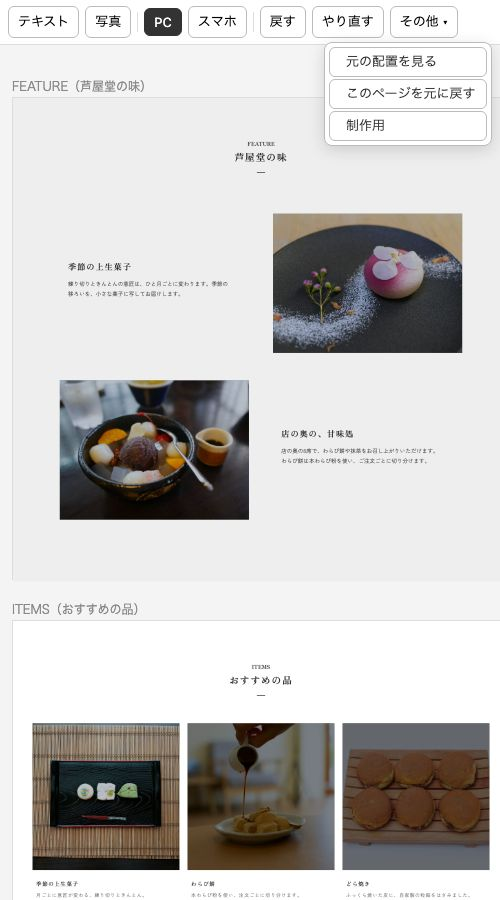
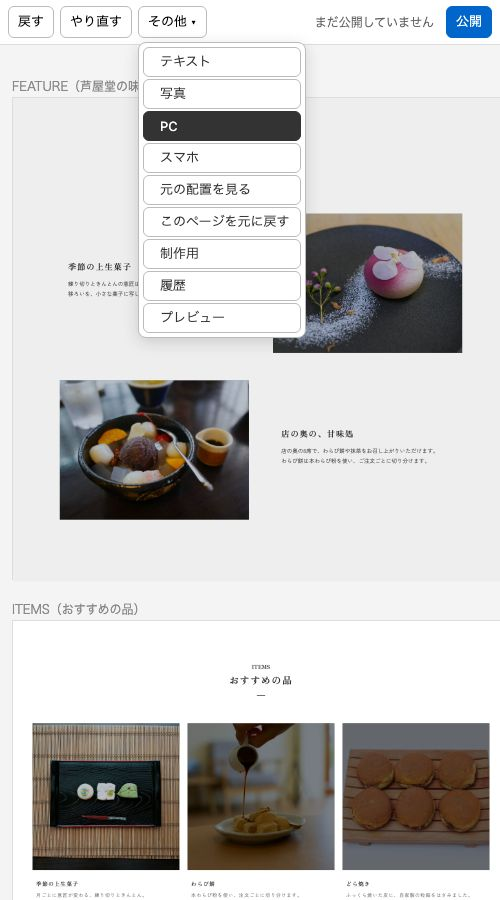
playground22b：§2 保存(IndexedDB 自動保存)・§3 ツールバー右端(状態の文字/履歴/プレビュー/公開)＋X28・§4.3 公開の記録
- §2(app.js)：直すたび500ms以内に下書き(ops+足した写真のasset)を IndexedDB へ自動保存。開き直しで boot() が復元し、戻すは undoBase から(復元直後は押せない)。saveState/simulateSaveError。reset で初期化。
- §3(build.mjs)：ツールバー右端に 状態の文字/履歴/プレビュー/公開。公開=青地白(公開中と同じ→灰で押せない)、未公開の変更ありはオレンジ太字。公開で「公開しました」トースト3秒。
  しまう順 制作用→履歴→プレビュー→元の配置→このページ→PC/スマホ→テキスト/写真(公開・戻す・やり直すはしまわない)。状態の文字は入らなければ その他 の一番上。スマホは下の並び右端に公開(44)・履歴/プレビュー/状態文字は その他。
- §4.3(app.js)：publish({force})で下書きを公開した版として履歴へ(日時つき)。公開した版は新しい30まで＋最初の形。versions()。22b は確認の箱なし。
- 入口 api/返り値に boot/saveState/simulateSaveError/publish/versions。presets W1-W7・W19、act に publish/simError。
- 検証：W1-W7/W19 の保存・公開・30件・復元・undoBase・保存失敗、§3 ツールバー(PC/スマホ)の状態文字/公開/しまい、L1-L32 全OK。

Changed region(s): [[0.03, 0.0, 0.99, 0.3733]]

diff --git a/refs/compare/layout/playground22_single.html b/refs/compare/layout/playground22_single.html
@@ -37,6 +37,15 @@ body{margin:0;font:14px/1.6 system-ui,-apple-system,"Hiragino Kaku Gothic ProN",
 #moreMenu [data-more-name] .sw{display:inline-block;width:16px;height:16px;border:1px solid #bbb;border-radius:3px}
 #moreMenu #tstools,#moreMenu #photoTools,#moreMenu #elemTools{display:inline-flex!important}
 #toolbar .sp{flex:1}
+/* §22 §3 状態の文字・公開ボタン・「公開しました」トースト */
+#saveStatus{font:12px system-ui;color:#666;white-space:nowrap;padding:0 6px;flex:0 0 auto}
+#saveStatus.warn{color:#e08a00;font-weight:700}
+#tPublish{background:#06c;color:#fff;border-color:#06c}
+#tPublish:disabled{background:#eee;color:#aaa;border-color:#ddd;cursor:default}
+#publishToast{position:fixed;left:50%;bottom:44px;transform:translateX(-50%);z-index:90;background:#333;color:#fff;font:13px system-ui;padding:9px 18px;border-radius:8px;box-shadow:0 2px 10px rgba(0,0,0,.25);display:none}
+#publishToast.on{display:block}
+#moreMenu .morestat{font:12px system-ui;color:#666;padding:4px 10px;min-height:30px;display:flex;align-items:center;cursor:default}
+#moreMenu .morestat.warn{color:#e08a00;font-weight:700}
 button{font:13px system-ui;padding:5px 9px;border:1px solid #bbb;border-radius:6px;background:#fff;cursor:pointer}
 button.on{background:#333;color:#fff;border-color:#333}
 button:active{transform:translateY(1px)}
@@ -197,6 +206,8 @@ button:active{transform:translateY(1px)}
 #pmore.on{display:flex}
 #pmore button{min-height:44px;font-size:15px;text-align:left;border:none;background:#fff;border-radius:6px;padding:8px 14px}
 #pmore button:active{background:#eef}
+#pmore .pmorestat{font:13px system-ui;color:#666;padding:8px 14px;min-height:44px;display:flex;align-items:center}
+#pmore .pmorestat.warn{color:#e08a00;font-weight:700}
 /* §3 キーボードのすぐ上の文字の道具 */
 #ptext{position:fixed;left:0;top:0;z-index:74;display:none;background:#fff;border-top:1px solid #ddd;box-shadow:0 -2px 10px rgba(0,0,0,.08);padding:6px 8px;gap:6px;align-items:center;transform-origin:top left}
 #ptext.on{display:flex}
@@ -250,6 +261,10 @@ button:active{transform:translateY(1px)}
   <button id="tMore" data-more-btn>その他 ▾</button>
   <span class="sp"></span>
   <button id="tStudio">制作用</button>
+  <span id="saveStatus" class="savestat"></span>
+  <button id="tHistory">履歴</button>
+  <button id="tPreview">プレビュー</button>
+  <button id="tPublish">公開</button>
 </div>
 <div id="studio">
   <div class="box"><b>試験を再現</b><br>
@@ -298,6 +313,7 @@ button:active{transform:translateY(1px)}
 <div id="linkPanel" data-link-panel></div>
 <div id="linkChip" data-link-chip></div>
 <div id="moreMenu"></div>
+<div id="publishToast"></div>
 <button id="photoChangeBtn" type="button" data-photo-change></button>
 <div id="brightPop" class="tspop"></div>
 <div id="pbar"></div>
@@ -1792,7 +1808,7 @@ const PG = (function () {
 
   // §2 セクションの並び（ページの組み立て）。今は特集・品の2つ。複製・追加・削除・並べ替えはこの並びを書き換える（試験台14・第2回で操作を足す）。
   const defaultSecList = () => [{ id: "feature", type: "feature" }, { id: "items", type: "items" }];
-  let state = { device: "pc", ops: [], cursor: 0, selected: new Set(), selectedSection: null, editing: null, peek: false, clipboard: null, addSeq: 0, secSeq: 0, secList: defaultSecList(), pendingNewText: null, fixedSections: false };
+  let state = { device: "pc", ops: [], cursor: 0, undoBase: 0, selected: new Set(), selectedSection: null, editing: null, peek: false, clipboard: null, addSeq: 0, secSeq: 0, secList: defaultSecList(), pendingNewText: null, fixedSections: false };
   let scale = 1, layoutCount = 0, composing = false;
   let clampGuard = false;   // §20b §2.4 表の幅クランプの再描画ガード（render の再入防止）
   let appliedPlace = {}; // id -> {top,left} 直近の絶対配置
@@ -2358,10 +2374,61 @@ const PG = (function () {
   function selectSection(sec) { state.selectedSection = sec; state.selected = new Set(); refreshSel(); }
 
   // ---- 履歴 ----
-  function commit(op) { state.ops = state.ops.slice(0, state.cursor); state.ops.push(op); state.cursor++; render(); }
-  function undo() { if (state.editing) return; if (state.cursor > 0) { state.cursor--; render(); } }
-  function redo() { if (state.editing) return; if (state.cursor < state.ops.length) { state.cursor++; render(); } }
-  function reset() { state.ops = []; state.cursor = 0; state.selected = new Set(); state.selectedSection = null; state.editing = null; state.secList = defaultSecList(); render(); }
+  function commit(op) { state.ops = state.ops.slice(0, state.cursor); state.ops.push(op); state.cursor++; render(); scheduleSave(); }
+  function undo() { if (state.editing) return; if (state.cursor > state.undoBase) { state.cursor--; render(); scheduleSave(); } }   // §22 §2.4 開き直した後の「戻す」は undoBase（＝復元した所）まで
+  function redo() { if (state.editing) return; if (state.cursor < state.ops.length) { state.cursor++; render(); scheduleSave(); } }
+  function reset() { state.ops = []; state.cursor = 0; state.undoBase = 0; state.selected = new Set(); state.selectedSection = null; state.editing = null; state.secList = defaultSecList(); _versions = initialVersions(); _saveStatus = "saved"; _simErr = false; render(); }
+
+  // ===================== §22 §2 保存（IndexedDB・自動保存）／§4.3 公開の記録 =====================
+  const IDB_DB = "mikke-playground22", IDB_VER = 1, IDB_STORE = "state";
+  const TEMPLATE_ASSETS = (typeof PHOTOS_JSON !== "undefined") ? PHOTOS_JSON : {};
+  let _db = null, _saveTimer = null, _saveStatus = "saved", _lastSavedAt = null, _simErr = false, _verSeq = 1;
+  const initialVersions = () => [{ id: "initial", kind: "initial", at: null, ops: [], assets: {} }];
+  let _versions = initialVersions();
+  function idbOpen() { return new Promise((res, rej) => { let q; try { q = indexedDB.open(IDB_DB, IDB_VER); } catch (e) { return rej(e); } q.onupgradeneeded = () => { const db = q.result; if (!db.objectStoreNames.contains(IDB_STORE)) db.createObjectStore(IDB_STORE); }; q.onsuccess = () => res(q.result); q.onerror = () => rej(q.error); }); }
+  function idbGet(db, key) { return new Promise((res, rej) => { const t = db.transaction(IDB_STORE, "readonly"); const g = t.objectStore(IDB_STORE).get(key); g.onsuccess = () => res(g.result); g.onerror = () => rej(g.error); }); }
+  function idbPut(db, key, val) { return new Promise((res, rej) => { const t = db.transaction(IDB_STORE, "readwrite"); t.objectStore(IDB_STORE).put(val, key); t.oncomplete = () => res(); t.onerror = () => rej(t.error); }); }
+  function collectAssets() { const out = {}; for (const id in ASSET) if (!(id in TEMPLATE_ASSETS) && ASSET[id]) out[id] = ASSET[id]; return out; }   // §2.3 足した/差し替えた写真
+  function serializeDraft() { return { ops: activeOps(), assets: collectAssets() }; }
+  function applyDraftData(d) { if (!d || !Array.isArray(d.ops)) return false; for (const id in (d.assets || {})) ASSET[id] = d.assets[id]; state.ops = clone(d.ops); state.cursor = state.ops.length; state.undoBase = state.cursor; return true; }
+  function scheduleSave() { if (_saveTimer) clearTimeout(_saveTimer); if (_saveStatus !== "error") _saveStatus = "saving"; if (typeof onRender === "function") onRender(); _saveTimer = setTimeout(doSave, 500); }   // §2.2 操作後 500ms 以内に保存／まとめて1回
+  async function doSave() {
+    _saveTimer = null;
+    try { if (_simErr) throw new Error("sim"); if (!_db) _db = await idbOpen(); await idbPut(_db, "draft", serializeDraft()); await idbPut(_db, "versions", _versions); _saveStatus = "saved"; _lastSavedAt = Date.now(); }
+    catch (e) { _saveStatus = "error"; }   // §2.6 保存に失敗したら状態の文字をオレンジに
+    if (typeof onRender === "function") onRender();
+    for (const id in collectAssets()) ensureNat(id);
+  }
+  async function boot() { try { _db = await idbOpen(); const vs = await idbGet(_db, "versions"); if (Array.isArray(vs) && vs.length) { _versions = vs; _verSeq = Math.max(_verSeq, ...vs.map((v) => (+String(v.id).replace(/\D/g, "") || 0)) ) + 1; } const d = await idbGet(_db, "draft"); if (d) applyDraftData(d); } catch (e) {} render(); for (const id in collectAssets()) ensureNat(id); }
+  function currentPublished() { const p = _versions.filter((v) => v.kind === "published"); return p.length ? p[p.length - 1] : null; }
+  function draftSig() { return JSON.stringify({ ops: activeOps(), assets: collectAssets() }); }
+  function publishedEqual() { const p = currentPublished(); return p ? (JSON.stringify({ ops: p.ops, assets: p.assets }) === draftSig()) : false; }   // §3.2 一度も公開していなければ false
+  function statusLabel() {
+    if (_saveStatus === "saving") return "保存しています…";
+    if (_saveStatus === "error") return "保存できませんでした。インターネットのつながりを確かめてください";
+    const p = currentPublished(); if (!p) return "まだ公開していません";
+    return publishedEqual() ? "公開中と同じです" : "まだ公開していない変更があります";
+  }
+  function saveState() { return { status: _saveStatus, label: statusLabel(), publishedEqual: publishedEqual(), lastSavedAt: _lastSavedAt }; }
+  function simulateSaveError(on) { _simErr = !!on; }
+  // §4.3 公開：下書きを「公開した版」として履歴へ（force は確認の箱を出さない＝22b）。公開した版は新しい方から30まで。最初の形は常に持つ。
+  function publish(opts) {
+    const v = { id: "v" + (_verSeq++), kind: "published", at: Date.now(), ops: activeOps(), assets: collectAssets() };
+    _versions.push(v);
+    const pubs = _versions.filter((x) => x.kind === "published");
+    if (pubs.length > 30) { const drop = new Set(pubs.slice(0, pubs.length - 30)); _versions = _versions.filter((x) => !drop.has(x)); }
+    scheduleSave(); if (typeof onRender === "function") onRender();
+    return v.id;
+  }
+  function versions() {
+    const pubs = _versions.filter((v) => v.kind === "published");
+    const cur = currentPublished();
+    const list = [{ id: "draft", kind: "draft", at: null, current: !cur || !publishedEqual() }];
+    for (let i = pubs.length - 1; i >= 0; i--) list.push({ id: pubs[i].id, kind: "published", at: pubs[i].at, current: pubs[i] === cur });
+    for (const b of _versions.filter((v) => v.kind === "beforeRestore")) list.push({ id: b.id, kind: "beforeRestore", at: b.at, current: false });
+    list.push({ id: "initial", kind: "initial", at: null, current: false });
+    return list;
+  }
   function setDevice(d) { if (state.editing) commitEdit(); state.device = d; render(); }
 
   // ---- §2 セクションの操作（上へ・下へ・複製・削除・足す）。ページの組み立て＝端末共通・1操作1undo。----
@@ -3281,6 +3348,15 @@ const PG = (function () {
       W21: [],                                          // §7 開いた直後（setFixedSections=false）＝20b と一致
       W22: [{ act: "setDev", d: "pc" }, { act: "move", id: "F_p0", by: [-619, 0] }, { act: "zmove", id: "F_p0", m: "back" }, { act: "zmove", id: "F_p0", m: "forward" }],   // §8 最背面→前面へ移動＝写真が見出しの前・本文の後ろ
       W23: [{ act: "winOnly" }],                         // X27 離す前の dropTarget（ドラッグ中の見た目＝再現なし）
+      // ===== 試験台22b（W1〜W7・W19）=====
+      W1: [{ act: "setDev", d: "pc" }],                  // §2/§3 新しい文脈で開く＝まだ公開していません・履歴は最初の形だけ（文脈は試験側）
+      W2: [{ act: "winOnly" }],                          // §2 開き直しは文脈の外＝再現なし
+      W3: [{ act: "winOnly" }],                          // §2 開き直しは再現なし
+      W4: [{ act: "winOnly" }],                          // §2 写真を足して開き直し＝再現なし
+      W5: [{ act: "setDev", d: "pc" }, { act: "simError", on: true }, { act: "edit", id: "F_h0", text: "保存失敗テスト" }, { act: "simError", on: false }, { act: "edit", id: "F_h0", text: "復帰テスト" }],   // §2.6 保存失敗→復帰
+      W6: [{ act: "setDev", d: "pc" }, { act: "edit", id: "F_h0", text: "公開テスト" }, { act: "publish" }],   // §4.3 公開＝確認の箱なし・公開中と同じに
+      W7: [{ act: "setDev", d: "pc" }, { act: "edit", id: "F_h0", text: "公開テスト" }, { act: "publish" }, { act: "edit", id: "F_h0", text: "さらに変更" }],   // §3.2 公開後に変更＝未公開の変更あり
+      W19: Array.from({ length: 32 }, (_, i) => [{ act: "edit", id: "F_h0", text: "版" + i }, { act: "publish" }]).flat(),   // §4.3 32回公開→公開した版30＋最初の形
     };
   }
   let lastSec = null;   // プリセットで直前に作った（複製・追加した）セクションの ID。@dup/@add が指す。
@@ -3323,6 +3399,8 @@ const PG = (function () {
     else if (step.act === "zfront") { bringToFront(); }
     else if (step.act === "zmove") { selectMany([canonId(step.id)]); ({ front: bringToFront, back: sendToBack, forward: bringForward, backward: sendBackward }[step.m] || (() => {}))(); }   // §22 §8
     else if (step.act === "setFixedSections") { setFixedSections(step.on); }   // §22 §7
+    else if (step.act === "publish") { publish(step.opts || { force: true }); }   // §22 §4.3
+    else if (step.act === "simError") { simulateSaveError(step.on); }   // §22 §2.6
     else if (step.act === "resetSection") { resetScope("section", step.sec === "feature" ? "F_h0" : "I_kanmi", [state.device]); }
     else if (step.act === "moveCenterToCenter") { const r = g[step.ref]; if (r) { const y = r.y + r.h / 2 + (step.off || 0) - g[step.id].h / 2; programMove([step.id], () => ({ x: g[step.id].x, y })); } }
     else if (step.act === "moveCenterToGap") { const a = g[step.after], b = g[step.before]; if (a && b) { const y = (a.y + a.h + b.y) / 2 - g[step.id].h / 2; programMove([step.id], () => ({ x: g[step.id].x, y })); } }
@@ -3550,9 +3628,12 @@ const PG = (function () {
     startEdit: (id) => startEdit(canonId(id)),
     editingId: () => state.editing && state.editing.id,
     setFixedSections,   // §22 §7 仮の一番上・一番下セクション
+    boot, saveState, simulateSaveError, publish, versions,   // §22 §2 保存・§4.3 公開の記録
   };
   return {
     state, render, reset, setDevice, undo, redo, commit, api, reduce, activeOps,
+    boot, saveState, simulateSaveError, publish, versions, setFixedSections,   // §22 §2 保存・§4.3 公開・§7（WIRING から使う）
+    canUndo: () => state.cursor > state.undoBase, canRedo: () => state.cursor < state.ops.length,
     canonId, isDraggable, isText, REPEAT, groupOf, secOf, elNode, getScale: () => scale, isHeadingGroup, inputMode,
     sectionMove, sectionDelete, sectionAdd, sectionDuplicate, sectionCan,   // §2 セクションの操作
     beginDrag, dragMove, endDrag, isDragging: () => !!drag, selectOnly, toggleSel, selectMany, clearSel, selectSection, selectInDesignRect, smallHit,
@@ -3595,7 +3676,7 @@ function opText(op){ const nm=id=>C3.friendly(id);
   return op.t; }
 function refreshStudio(){ const ol=document.getElementById("oplog"); if(ol){ ol.innerHTML=""; for(const op of PG.api.ops()){ const li=document.createElement("li"); li.textContent=opText(op); ol.appendChild(li);} }
   const ul=document.getElementById("anchorlist"); if(ul){ ul.innerHTML=""; for(const a of PG.anchorsList()){ const li=document.createElement("li"); li.textContent=a.partName+"："+(a.mode==="M1"?"塊の中でずらす":a.anchorName+"の下（空き"+a.gapY+"）"); ul.appendChild(li);} } }
-window.onRender=function(){ restoreFromMore(); applyPhotos(); refreshStudio(); positionFmenu(); updateTextTools(); updatePhotoTools(); updateElemTools(); updateCardsTools(); refreshPhotoBtns(); updateAddZones(); addHandleHits(); refreshPhoneUI(); syncOverlays(); layoutToolbar(); };
+window.onRender=function(){ restoreFromMore(); applyPhotos(); refreshStudio(); positionFmenu(); updateTextTools(); updatePhotoTools(); updateElemTools(); updateCardsTools(); refreshPhotoBtns(); updateAddZones(); addHandleHits(); refreshPhoneUI(); syncOverlays(); if(typeof updateSaveUI==="function") updateSaveUI(); layoutToolbar(); if(typeof updateMoreStatus==="function") updateMoreStatus(); };
 // §19b（X20）上の道具を常に1段に保ち、入りきらないぶんを「その他 ▾」にしまう（窓の幅で機能を隠さない）
 const toolbarEl=document.getElementById("toolbar");
 const tMore=document.getElementById("tMore");
@@ -3624,17 +3705,19 @@ function cleanupDividers(){ for(const host of [toolbarEl, document.getElementByI
     const prevIsDiv=i>0 && visChildren[i-1].classList&&visChildren[i-1].classList.contains("div");
     if(!prevBtn||!nextBtn||prevIsDiv) c.style.display="none"; } } }
 function overflowCandidates(){ const out=[]; const push=(sel)=>{ const el=typeof sel==="string"?document.querySelector(sel):sel; if(el) out.push(el); };
-  push("#tStudio"); push("#tPeek"); push("#tResetPage"); push("#dSP"); push("#dPC"); push("#tPhoto"); push("#tText");   // §2 しまう順（先にしまうもの）
+  push("#tStudio"); push("#tHistory"); push("#tPreview"); push("#tPeek"); push("#tResetPage"); push("#dSP"); push("#dPC"); push("#tPhoto"); push("#tText");   // §22 §3.3 しまう順：制作用→履歴→プレビュー→元の配置→このページ→PC/スマホ→テキスト/写真（公開・戻す・やり直すはしまわない）
   for(const sel of ['#tstools [data-ts="link"]','#tstools [data-ts="color"]','#tstools [data-ts="bold"]','#tstools [data-ts="size-list"]','#tstools [data-ts="grow"]','#tstools [data-ts="size"]','#tstools [data-ts="shrink"]','#tstools [data-ts="font"]','#tBright','#tCols','#tElemLink']) push(sel);   // それでも入らなければ道具の右から
   return out; }   // 「戻す」「やり直す」は最後までしまわない
 let laying=false;
 function layoutToolbar(){ if(laying) return; laying=true;
   moreMenu.classList.remove("on"); restoreFromMore(); tMore.style.display="none"; cleanupDividers();
+  const stat=document.getElementById("saveStatus"); if(stat) stat.style.display="";   // §22 §3.3 まず状態の文字を並びに戻す
   if(toolbarEl.scrollWidth<=toolbarEl.clientWidth+1){ laying=false; return; }
   tMore.style.display="inline-block";   // §19b CSS 既定が display:none のため明示的に出す（""だと none に戻る）
   // §22 X28：PC とスマホ、テキストと写真は組＝片方だけ並びに残さない（しまうときは相方も一緒にしまう）
   const PAIR={dSP:"dPC",dPC:"dSP",tPhoto:"tText",tText:"tPhoto"};
   for(const el of overflowCandidates()){ if(toolbarEl.scrollWidth<=toolbarEl.clientWidth+1) break; if(el && el.offsetParent!==null && el!==tMore){ moveToMore(el); const pid=PAIR[el.id]; if(pid){ const pe=document.getElementById(pid); if(pe && pe.offsetParent!==null) moveToMore(pe); } } }
+  if(stat && toolbarEl.scrollWidth>toolbarEl.clientWidth+1) stat.style.display="none";   // §22 §3.3 それでも入らなければ状態の文字をしまう（→その他の一番上へ。updateMoreStatus）
   reorderMore(); cleanupDividers();
   laying=false; }
 tMore.onmousedown=(e)=>e.preventDefault();
@@ -3654,6 +3737,20 @@ document.getElementById("tUndo").onclick=()=>PG.undo();
 document.getElementById("tRedo").onclick=()=>PG.redo();
 document.getElementById("tResetPage").onclick=()=>PG.resetScope("page",null,["pc","sp"]);
 document.getElementById("tStudio").onclick=(e)=>{ document.getElementById("studio").classList.toggle("on"); e.target.classList.toggle("on"); refreshStudio(); };
+// §22 §3 公開・状態の文字・「公開しました」トースト（§4.1 の確認の箱は 22c。22b は publish({force:true}) 相当）
+let _lastPubEnabled=true, _pubToastT=null;
+function updateSaveUI(){ const st=PG.saveState(); const el=document.getElementById("saveStatus"); const pub=document.getElementById("tPublish"); if(!el||!pub) return;
+  el.textContent=st.label; el.classList.toggle("warn", st.status==="error" || st.label==="まだ公開していない変更があります");
+  if(st.status==="saved") _lastPubEnabled = !st.publishedEqual;   // §3.2 公開中と同じ→押せない／それ以外→押せる。保存中・失敗は前の状態のまま
+  pub.disabled = !_lastPubEnabled;
+  updateMoreStatus(); }
+document.getElementById("tPublish").onclick=()=>{ const pub=document.getElementById("tPublish"); if(pub.disabled) return; PG.publish({force:true}); const t=document.getElementById("publishToast"); t.textContent="公開しました"; t.classList.add("on"); clearTimeout(_pubToastT); _pubToastT=setTimeout(()=>t.classList.remove("on"),3000); updateSaveUI(); };
+document.getElementById("tHistory").onclick=()=>{ /* §6 履歴の板は 22d */ };
+document.getElementById("tPreview").onclick=()=>{ /* §5 プレビューは 22c */ };
+// §3.3 状態の文字が並びに入らないときは「その他」の一番上に押せない行として出す
+function updateMoreStatus(){ const mm=document.getElementById("moreMenu"); if(!mm) return; const old=mm.querySelector(".morestat"); if(old) old.remove();
+  const el=document.getElementById("saveStatus"); const stowed = el && (el.offsetParent===null); if(!stowed) return;
+  const st=PG.saveState(); const row=document.createElement("div"); row.className="morestat"+((st.status==="error"||st.label==="まだ公開していない変更があります")?" warn":""); row.textContent=st.label; mm.insertBefore(row, mm.firstChild); }
 const peekBtn=document.getElementById("tPeek");
 peekBtn.addEventListener("pointerdown",()=>PG.peekOn()); window.addEventListener("pointerup",()=>{ if(PG.state.peek) PG.peekOff(); });
 document.querySelectorAll("[data-q]").forEach(b=>b.onclick=()=>PG.api.runPreset(b.dataset.q));
@@ -4365,11 +4462,17 @@ function buildPbar(){ pbar.innerHTML="";
   pbar.appendChild(pbtn("戻す",()=>PG.undo(),"data-pbar-undo"));
   pbar.appendChild(pbtn("やり直す",()=>PG.redo(),"data-pbar-redo"));
   pbar.appendChild(pbtn("その他",()=>togglePmore(),"data-pbar-more"));
+  const sp=document.createElement("span"); sp.className="sp"; pbar.appendChild(sp);   // §22 §3.4 右端に公開
+  pbar.appendChild(pbtn("公開",()=>phonePublish(),"data-pbar-publish"));
 }
+function phonePublish(){ const st=PG.saveState(); if(st.label==="公開中と同じです") return; PG.publish({force:true}); const t=document.getElementById("publishToast"); t.textContent="公開しました"; t.classList.add("on"); clearTimeout(_pubToastT); _pubToastT=setTimeout(()=>t.classList.remove("on"),3000); refreshPhoneUI(); }
 function setPhoneDevice(d){ pmore.classList.remove("on"); PG.setDevice(d); const sp=document.getElementById("dSP"), pc=document.getElementById("dPC"); if(d==="sp"){ sp.classList.add("on"); pc.classList.remove("on"); } else { pc.classList.add("on"); sp.classList.remove("on"); } }
 function togglePmore(){ if(pmore.classList.contains("on")){ pmore.classList.remove("on"); return; } buildPmore(); pmore.classList.add("on"); placeAboveBar(pmore); }
 function buildPmore(){ pmore.innerHTML="";   // §2.3 一覧の中身（上から）
   const mk=(label,fn)=>{ const b=document.createElement("button"); b.textContent=label; b.addEventListener("pointerdown",(e)=>e.preventDefault()); b.onclick=(e)=>{ e.stopPropagation(); pmore.classList.remove("on"); fn(); }; return b; };
+  const st=PG.saveState(); const srow=document.createElement("div"); srow.className="pmorestat"+((st.status==="error"||st.label==="まだ公開していない変更があります")?" warn":""); srow.textContent=st.label; pmore.appendChild(srow);   // §22 §3.4 状態の文字＝その他の一番上
+  pmore.appendChild(mk("履歴",()=>{ /* §6 履歴の板は 22d */ }));   // §22 §3.4 履歴・プレビューはその他
+  pmore.appendChild(mk("プレビュー",()=>{ /* §5 プレビューは 22c */ }));
   pmore.appendChild(mk("テキストを足す",()=>phoneAddText()));
   pmore.appendChild(mk("PC の見え方を見る",()=>setPhoneDevice("pc")));
   const peek=document.createElement("button"); peek.textContent="元の配置を見る"; peek.setAttribute("data-pmore-peek","1"); peek.addEventListener("pointerdown",(e)=>{ e.preventDefault(); PG.peekOn(); }); const off=()=>{ if(PG.state.peek) PG.peekOff(); }; peek.addEventListener("pointerup",off); peek.addEventListener("pointerleave",off); peek.onclick=(e)=>e.stopPropagation(); pmore.appendChild(peek);
@@ -4455,7 +4558,8 @@ cropwrap.addEventListener("touchend",(e)=>{ if(!cropTouch)return; if(e.touches.l
 document.body.classList.toggle("pg-phone", isPhone());
 if(isPhone()){ PG.setDevice("sp"); document.getElementById("dSP").classList.add("on"); document.getElementById("dPC").classList.remove("on"); }
 
-PG.render();
+// §22 §2 保存：IndexedDB から下書きを復元してから描く（無ければテンプレ）。復元後の「戻す」は空から
+if(PG.boot) PG.boot(); else PG.render();
 
 </script>
 </body></html>

diff --git a/experiments/layout/playground22/app.js b/experiments/layout/playground22/app.js
@@ -404,7 +404,7 @@ const PG = (function () {
 
   // §2 セクションの並び（ページの組み立て）。今は特集・品の2つ。複製・追加・削除・並べ替えはこの並びを書き換える（試験台14・第2回で操作を足す）。
   const defaultSecList = () => [{ id: "feature", type: "feature" }, { id: "items", type: "items" }];
-  let state = { device: "pc", ops: [], cursor: 0, selected: new Set(), selectedSection: null, editing: null, peek: false, clipboard: null, addSeq: 0, secSeq: 0, secList: defaultSecList(), pendingNewText: null, fixedSections: false };
+  let state = { device: "pc", ops: [], cursor: 0, undoBase: 0, selected: new Set(), selectedSection: null, editing: null, peek: false, clipboard: null, addSeq: 0, secSeq: 0, secList: defaultSecList(), pendingNewText: null, fixedSections: false };
   let scale = 1, layoutCount = 0, composing = false;
   let clampGuard = false;   // §20b §2.4 表の幅クランプの再描画ガード（render の再入防止）
   let appliedPlace = {}; // id -> {top,left} 直近の絶対配置
@@ -970,10 +970,61 @@ const PG = (function () {
   function selectSection(sec) { state.selectedSection = sec; state.selected = new Set(); refreshSel(); }
 
   // ---- 履歴 ----
-  function commit(op) { state.ops = state.ops.slice(0, state.cursor); state.ops.push(op); state.cursor++; render(); }
-  function undo() { if (state.editing) return; if (state.cursor > 0) { state.cursor--; render(); } }
-  function redo() { if (state.editing) return; if (state.cursor < state.ops.length) { state.cursor++; render(); } }
-  function reset() { state.ops = []; state.cursor = 0; state.selected = new Set(); state.selectedSection = null; state.editing = null; state.secList = defaultSecList(); render(); }
+  function commit(op) { state.ops = state.ops.slice(0, state.cursor); state.ops.push(op); state.cursor++; render(); scheduleSave(); }
+  function undo() { if (state.editing) return; if (state.cursor > state.undoBase) { state.cursor--; render(); scheduleSave(); } }   // §22 §2.4 開き直した後の「戻す」は undoBase（＝復元した所）まで
+  function redo() { if (state.editing) return; if (state.cursor < state.ops.length) { state.cursor++; render(); scheduleSave(); } }
+  function reset() { state.ops = []; state.cursor = 0; state.undoBase = 0; state.selected = new Set(); state.selectedSection = null; state.editing = null; state.secList = defaultSecList(); _versions = initialVersions(); _saveStatus = "saved"; _simErr = false; render(); }
+
+  // ===================== §22 §2 保存（IndexedDB・自動保存）／§4.3 公開の記録 =====================
+  const IDB_DB = "mikke-playground22", IDB_VER = 1, IDB_STORE = "state";
+  const TEMPLATE_ASSETS = (typeof PHOTOS_JSON !== "undefined") ? PHOTOS_JSON : {};
+  let _db = null, _saveTimer = null, _saveStatus = "saved", _lastSavedAt = null, _simErr = false, _verSeq = 1;
+  const initialVersions = () => [{ id: "initial", kind: "initial", at: null, ops: [], assets: {} }];
+  let _versions = initialVersions();
+  function idbOpen() { return new Promise((res, rej) => { let q; try { q = indexedDB.open(IDB_DB, IDB_VER); } catch (e) { return rej(e); } q.onupgradeneeded = () => { const db = q.result; if (!db.objectStoreNames.contains(IDB_STORE)) db.createObjectStore(IDB_STORE); }; q.onsuccess = () => res(q.result); q.onerror = () => rej(q.error); }); }
+  function idbGet(db, key) { return new Promise((res, rej) => { const t = db.transaction(IDB_STORE, "readonly"); const g = t.objectStore(IDB_STORE).get(key); g.onsuccess = () => res(g.result); g.onerror = () => rej(g.error); }); }
+  function idbPut(db, key, val) { return new Promise((res, rej) => { const t = db.transaction(IDB_STORE, "readwrite"); t.objectStore(IDB_STORE).put(val, key); t.oncomplete = () => res(); t.onerror = () => rej(t.error); }); }
+  function collectAssets() { const out = {}; for (const id in ASSET) if (!(id in TEMPLATE_ASSETS) && ASSET[id]) out[id] = ASSET[id]; return out; }   // §2.3 足した/差し替えた写真
+  function serializeDraft() { return { ops: activeOps(), assets: collectAssets() }; }
+  function applyDraftData(d) { if (!d || !Array.isArray(d.ops)) return false; for (const id in (d.assets || {})) ASSET[id] = d.assets[id]; state.ops = clone(d.ops); state.cursor = state.ops.length; state.undoBase = state.cursor; return true; }
+  function scheduleSave() { if (_saveTimer) clearTimeout(_saveTimer); if (_saveStatus !== "error") _saveStatus = "saving"; if (typeof onRender === "function") onRender(); _saveTimer = setTimeout(doSave, 500); }   // §2.2 操作後 500ms 以内に保存／まとめて1回
+  async function doSave() {
+    _saveTimer = null;
+    try { if (_simErr) throw new Error("sim"); if (!_db) _db = await idbOpen(); await idbPut(_db, "draft", serializeDraft()); await idbPut(_db, "versions", _versions); _saveStatus = "saved"; _lastSavedAt = Date.now(); }
+    catch (e) { _saveStatus = "error"; }   // §2.6 保存に失敗したら状態の文字をオレンジに
+    if (typeof onRender === "function") onRender();
+    for (const id in collectAssets()) ensureNat(id);
+  }
+  async function boot() { try { _db = await idbOpen(); const vs = await idbGet(_db, "versions"); if (Array.isArray(vs) && vs.length) { _versions = vs; _verSeq = Math.max(_verSeq, ...vs.map((v) => (+String(v.id).replace(/\D/g, "") || 0)) ) + 1; } const d = await idbGet(_db, "draft"); if (d) applyDraftData(d); } catch (e) {} render(); for (const id in collectAssets()) ensureNat(id); }
+  function currentPublished() { const p = _versions.filter((v) => v.kind === "published"); return p.length ? p[p.length - 1] : null; }
+  function draftSig() { return JSON.stringify({ ops: activeOps(), assets: collectAssets() }); }
+  function publishedEqual() { const p = currentPublished(); return p ? (JSON.stringify({ ops: p.ops, assets: p.assets }) === draftSig()) : false; }   // §3.2 一度も公開していなければ false
+  function statusLabel() {
+    if (_saveStatus === "saving") return "保存しています…";
+    if (_saveStatus === "error") return "保存できませんでした。インターネットのつながりを確かめてください";
+    const p = currentPublished(); if (!p) return "まだ公開していません";
+    return publishedEqual() ? "公開中と同じです" : "まだ公開していない変更があります";
+  }
+  function saveState() { return { status: _saveStatus, label: statusLabel(), publishedEqual: publishedEqual(), lastSavedAt: _lastSavedAt }; }
+  function simulateSaveError(on) { _simErr = !!on; }
+  // §4.3 公開：下書きを「公開した版」として履歴へ（force は確認の箱を出さない＝22b）。公開した版は新しい方から30まで。最初の形は常に持つ。
+  function publish(opts) {
+    const v = { id: "v" + (_verSeq++), kind: "published", at: Date.now(), ops: activeOps(), assets: collectAssets() };
+    _versions.push(v);
+    const pubs = _versions.filter((x) => x.kind === "published");
+    if (pubs.length > 30) { const drop = new Set(pubs.slice(0, pubs.length - 30)); _versions = _versions.filter((x) => !drop.has(x)); }
+    scheduleSave(); if (typeof onRender === "function") onRender();
+    return v.id;
+  }
+  function versions() {
+    const pubs = _versions.filter((v) => v.kind === "published");
+    const cur = currentPublished();
+    const list = [{ id: "draft", kind: "draft", at: null, current: !cur || !publishedEqual() }];
+    for (let i = pubs.length - 1; i >= 0; i--) list.push({ id: pubs[i].id, kind: "published", at: pubs[i].at, current: pubs[i] === cur });
+    for (const b of _versions.filter((v) => v.kind === "beforeRestore")) list.push({ id: b.id, kind: "beforeRestore", at: b.at, current: false });
+    list.push({ id: "initial", kind: "initial", at: null, current: false });
+    return list;
+  }
   function setDevice(d) { if (state.editing) commitEdit(); state.device = d; render(); }
 
   // ---- §2 セクションの操作（上へ・下へ・複製・削除・足す）。ページの組み立て＝端末共通・1操作1undo。----
@@ -1893,6 +1944,15 @@ const PG = (function () {
       W21: [],                                          // §7 開いた直後（setFixedSections=false）＝20b と一致
       W22: [{ act: "setDev", d: "pc" }, { act: "move", id: "F_p0", by: [-619, 0] }, { act: "zmove", id: "F_p0", m: "back" }, { act: "zmove", id: "F_p0", m: "forward" }],   // §8 最背面→前面へ移動＝写真が見出しの前・本文の後ろ
       W23: [{ act: "winOnly" }],                         // X27 離す前の dropTarget（ドラッグ中の見た目＝再現なし）
+      // ===== 試験台22b（W1〜W7・W19）=====
+      W1: [{ act: "setDev", d: "pc" }],                  // §2/§3 新しい文脈で開く＝まだ公開していません・履歴は最初の形だけ（文脈は試験側）
+      W2: [{ act: "winOnly" }],                          // §2 開き直しは文脈の外＝再現なし
+      W3: [{ act: "winOnly" }],                          // §2 開き直しは再現なし
+      W4: [{ act: "winOnly" }],                          // §2 写真を足して開き直し＝再現なし
+      W5: [{ act: "setDev", d: "pc" }, { act: "simError", on: true }, { act: "edit", id: "F_h0", text: "保存失敗テスト" }, { act: "simError", on: false }, { act: "edit", id: "F_h0", text: "復帰テスト" }],   // §2.6 保存失敗→復帰
+      W6: [{ act: "setDev", d: "pc" }, { act: "edit", id: "F_h0", text: "公開テスト" }, { act: "publish" }],   // §4.3 公開＝確認の箱なし・公開中と同じに
+      W7: [{ act: "setDev", d: "pc" }, { act: "edit", id: "F_h0", text: "公開テスト" }, { act: "publish" }, { act: "edit", id: "F_h0", text: "さらに変更" }],   // §3.2 公開後に変更＝未公開の変更あり
+      W19: Array.from({ length: 32 }, (_, i) => [{ act: "edit", id: "F_h0", text: "版" + i }, { act: "publish" }]).flat(),   // §4.3 32回公開→公開した版30＋最初の形
     };
   }
   let lastSec = null;   // プリセットで直前に作った（複製・追加した）セクションの ID。@dup/@add が指す。
@@ -1935,6 +1995,8 @@ const PG = (function () {
     else if (step.act === "zfront") { bringToFront(); }
     else if (step.act === "zmove") { selectMany([canonId(step.id)]); ({ front: bringToFront, back: sendToBack, forward: bringForward, backward: sendBackward }[step.m] || (() => {}))(); }   // §22 §8
     else if (step.act === "setFixedSections") { setFixedSections(step.on); }   // §22 §7
+    else if (step.act === "publish") { publish(step.opts || { force: true }); }   // §22 §4.3
+    else if (step.act === "simError") { simulateSaveError(step.on); }   // §22 §2.6
     else if (step.act === "resetSection") { resetScope("section", step.sec === "feature" ? "F_h0" : "I_kanmi", [state.device]); }
     else if (step.act === "moveCenterToCenter") { const r = g[step.ref]; if (r) { const y = r.y + r.h / 2 + (step.off || 0) - g[step.id].h / 2; programMove([step.id], () => ({ x: g[step.id].x, y })); } }
     else if (step.act === "moveCenterToGap") { const a = g[step.after], b = g[step.before]; if (a && b) { const y = (a.y + a.h + b.y) / 2 - g[step.id].h / 2; programMove([step.id], () => ({ x: g[step.id].x, y })); } }
@@ -2162,9 +2224,12 @@ const PG = (function () {
     startEdit: (id) => startEdit(canonId(id)),
     editingId: () => state.editing && state.editing.id,
     setFixedSections,   // §22 §7 仮の一番上・一番下セクション
+    boot, saveState, simulateSaveError, publish, versions,   // §22 §2 保存・§4.3 公開の記録
   };
   return {
     state, render, reset, setDevice, undo, redo, commit, api, reduce, activeOps,
+    boot, saveState, simulateSaveError, publish, versions, setFixedSections,   // §22 §2 保存・§4.3 公開・§7（WIRING から使う）
+    canUndo: () => state.cursor > state.undoBase, canRedo: () => state.cursor < state.ops.length,
     canonId, isDraggable, isText, REPEAT, groupOf, secOf, elNode, getScale: () => scale, isHeadingGroup, inputMode,
     sectionMove, sectionDelete, sectionAdd, sectionDuplicate, sectionCan,   // §2 セクションの操作
     beginDrag, dragMove, endDrag, isDragging: () => !!drag, selectOnly, toggleSel, selectMany, clearSel, selectSection, selectInDesignRect, smallHit,
